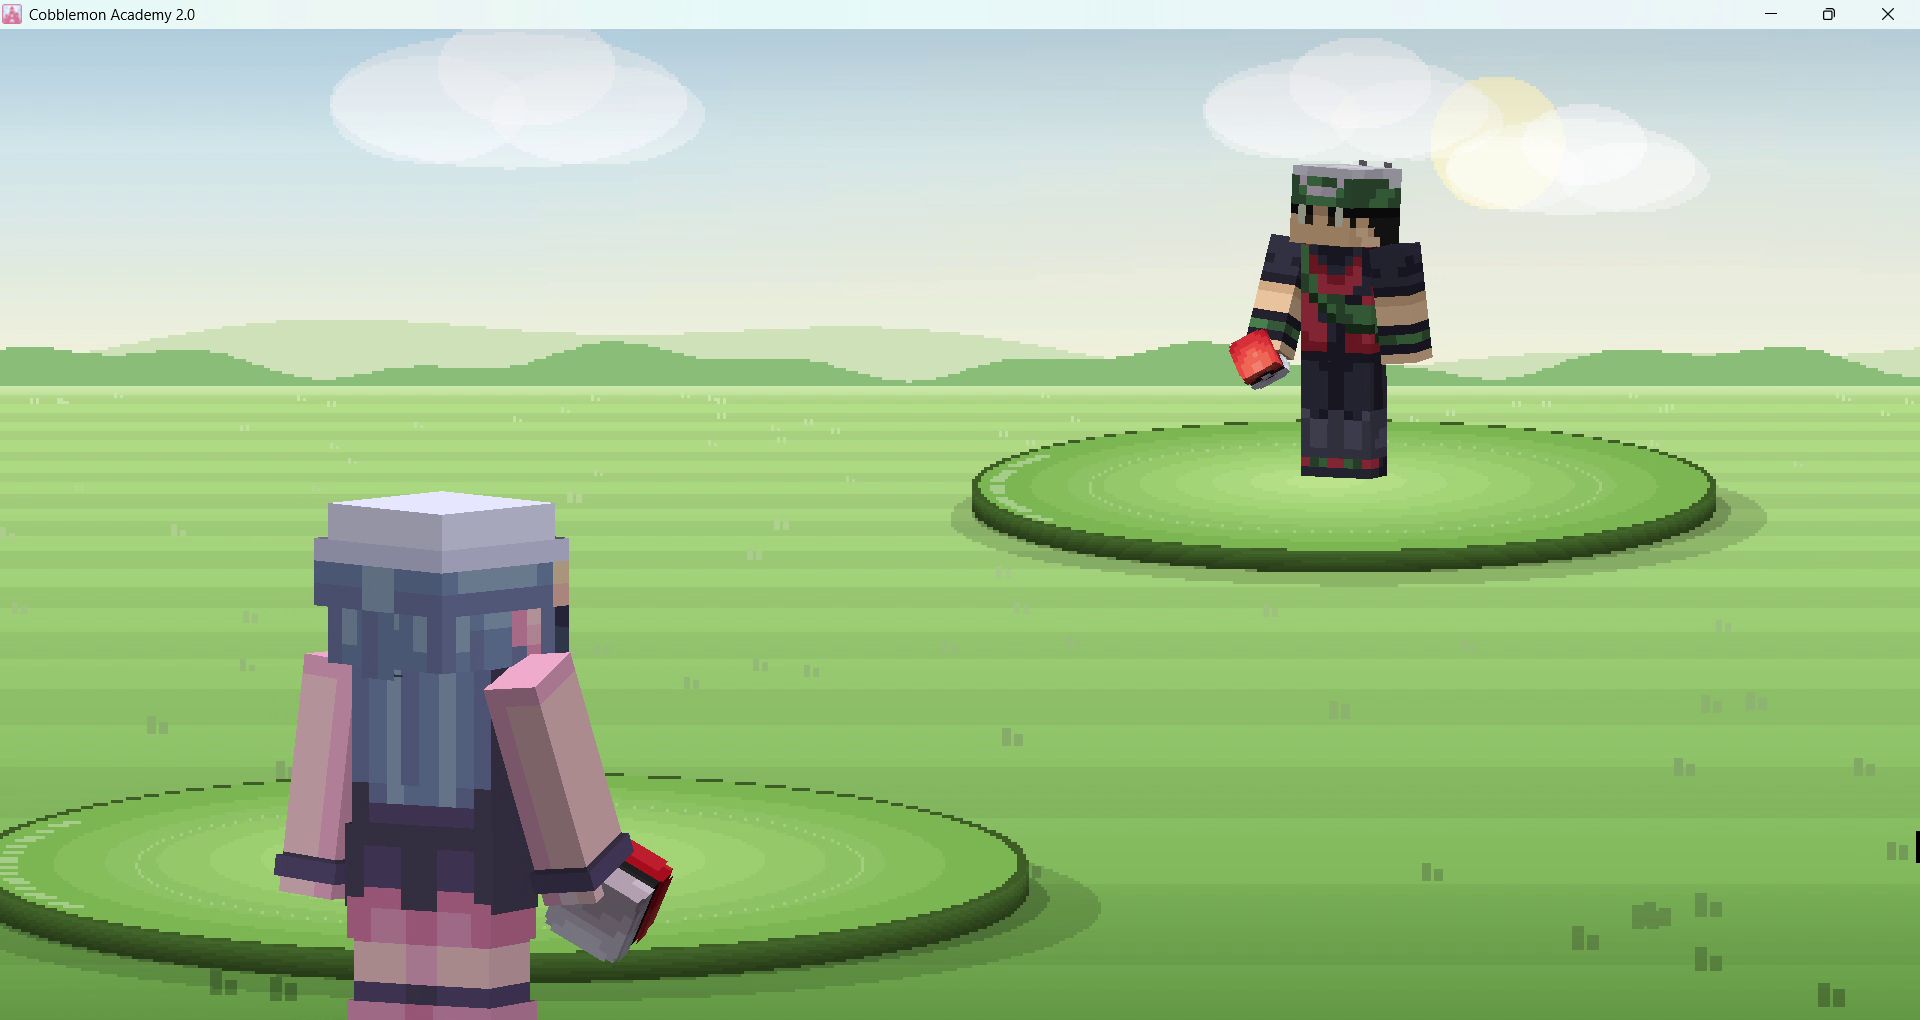
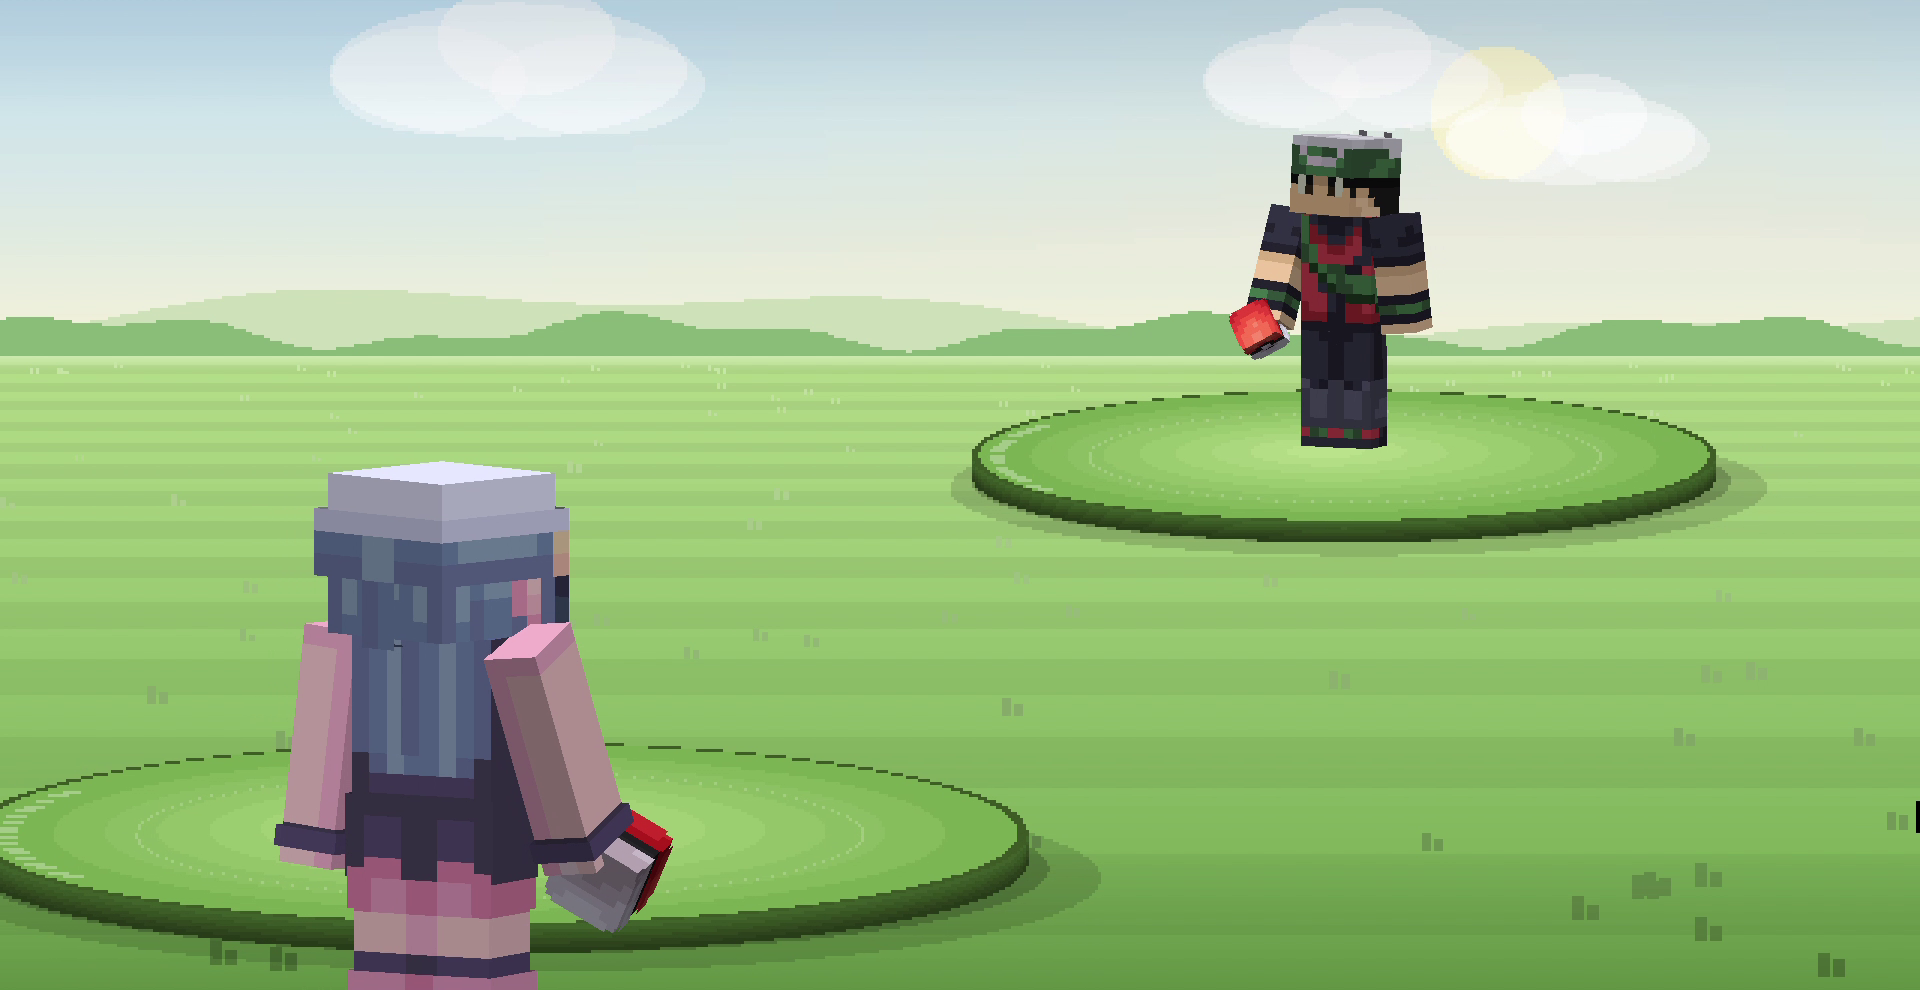
Crop the window title bar off the intro gallery

diff --git a/tools/gallery.py b/tools/gallery.py
@@ -28,6 +28,9 @@ SETS = {
 SRC, HAS_SHOT, CLIPS = SETS[KIND]
 OUT = os.path.join(ROOT, KIND)
 LEN, FADE = 3.0, 0.6
+# The intro recording shows the window's title bar along the top: cut those rows off.
+TOP = {"intros": 30}.get(KIND, 0)
+CROP = ["-vf", f"crop=iw:ih-{TOP}:0:{TOP}"] if TOP else []
 
 shots = os.path.join(OUT, "screenshots")
 clips = os.path.join(OUT, "clips")
@@ -44,9 +47,9 @@ for i, entry in enumerate(CLIPS, 1):
     name, t = entry[0], entry[1]
     shot = entry[2] if HAS_SHOT else t + 1.5
     stem = f"{i:02d}_{name}"
-    run(["-ss", str(shot), "-i", SRC, "-frames:v", "1", os.path.join(shots, stem + ".png")])
+    run(["-ss", str(shot), "-i", SRC] + CROP + ["-frames:v", "1", os.path.join(shots, stem + ".png")])
     p = os.path.join(clips, stem + ".mp4")
-    run(["-ss", str(t), "-i", SRC, "-t", str(LEN), "-an", "-c:v", "libx264", "-crf", "18", "-pix_fmt", "yuv420p",
+    run(["-ss", str(t), "-i", SRC] + CROP + ["-t", str(LEN), "-an", "-c:v", "libx264", "-crf", "18", "-pix_fmt", "yuv420p",
          "-r", "30", p])
     paths.append(p)
 
